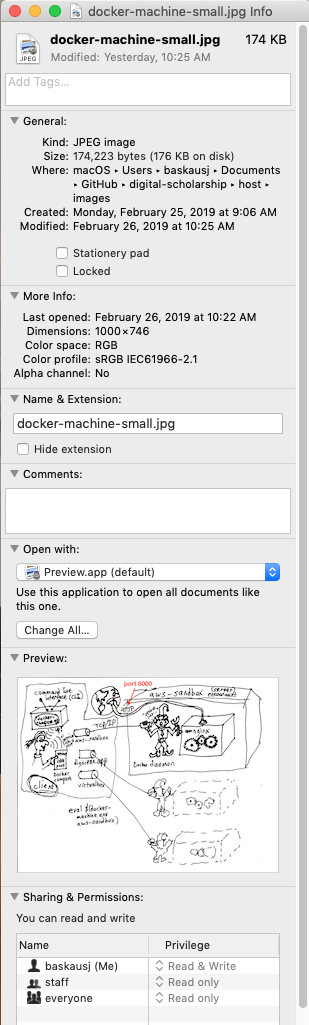
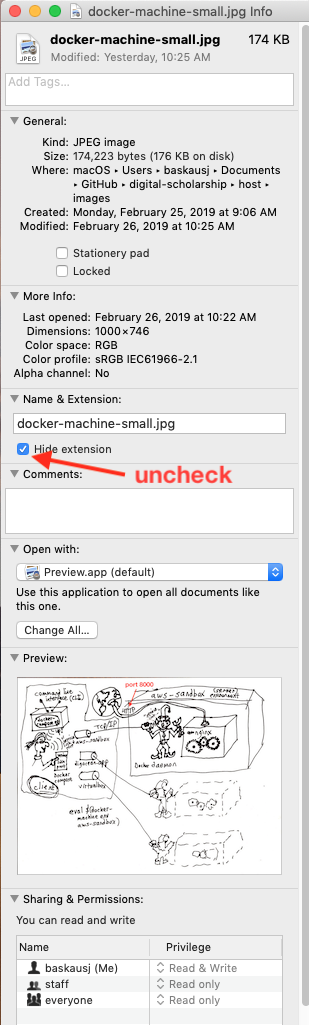
incremental work

diff --git a/computer/files-mac.md b/computer/files-mac.md
@@ -34,11 +34,11 @@ In reality, the two image files are somewhere on the *hard drive* of my computer
 
 Long ago, personal computers could have only one user.  Now personal computers are set up to allow different users to log on and access their own files using personalized settings.  You may do some sort of login when you boot your computer, or your computer may be set up to log you in automatically.  
 
-![](images/mac-system.png)
+![](../images/mac-system.png)
 
 To see what users are enabled on your computer, drop down the apple menu at the upper left of your screen and select System Preferences.  If necessary, click on the button at the top that contains rows of dots so that you can see the preferences options.  Double click on Users & Groups.
 
-![](images/mac-users.png)
+![](../images/mac-users.png)
 
 There are several important things that you can see from this window.  You can see who is currently logged on, and whether the current user is an *administrator user* or not.  If you are using your own computer, you generally should be logged on as an administrator user, otherwise you may be prevented from taking important actions like installing new software.  If you are using a work computer, you may not be an administator user.  In that case, there may be some changes that you won't be allowed to make on your computer.
 
@@ -146,12 +146,18 @@ Despite this change, Macs continue to hide the file extensions from their users.
 
 There are three ways in Finder that you can get information about a particular file, including its kind.  
 
+![Mac icon without extension](../images/icon-no-extension.png)
+
+
 1. Right click on the file, then select `Get Info` from the menu that opens.
 2. Click on the file, then select `Get Info` from the Finder File menu at the upper left of the screen.
 3. Click on the file, hold down on the `command` key, then press the `i` key.  
 
 <img src="../images/get-info.png" style="border:1px solid black">
 
+The Get Info window shows all kinds of information about the file, including its kind, size, and often a preview of how the file would be rendered.  There is also a checkbox to control whether the file extension is displayed for that particular file.  Unchecking that box makes the extension show up in the file name in Finder:
+
+![Mac icon with extension](../images/icon-extension.png)
 
 
 ## File type associations
